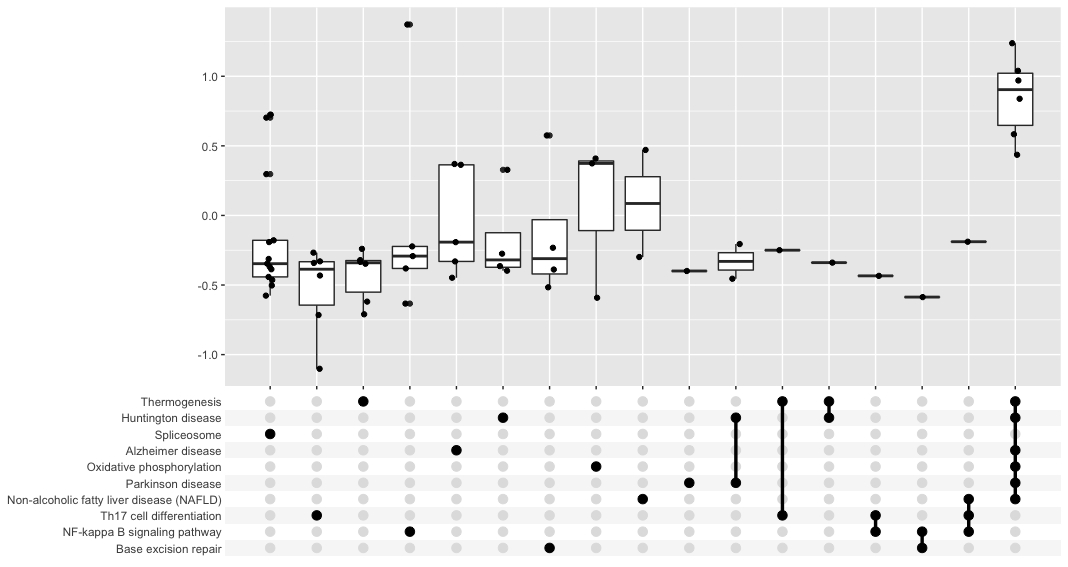
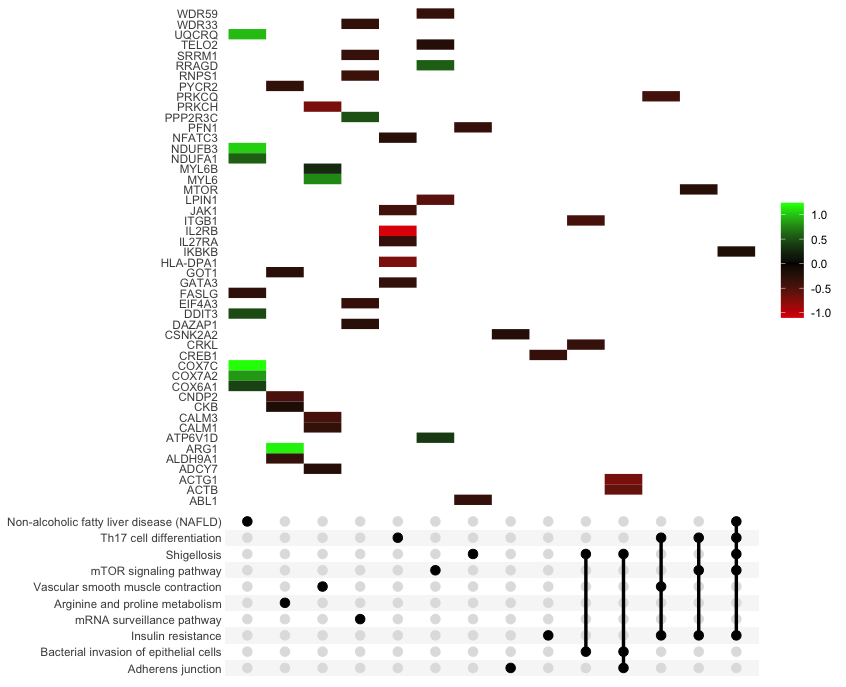
update README

diff --git a/README.md b/README.md
@@ -235,13 +235,16 @@ Graph](https://github.com/egeulgen/pathfindR/blob/master/vignettes/term_gene.png
 
 ## UpSet Plot
 
-UpSet plots are plots of the intersections of sets as a matrix.
-`UpSet_plot()` creates a ggplot object of an UpSet plot where the x-axis
-is the UpSet plot of intersections of enriched terms and the main plot
-is a bar plot of the number of genes in the corresponding intersections
-(default). If `genes_df` is provided, then the main plot displays the
-boxplots of change values of the genes within the corresponding
-intersections.
+UpSet plots are plots of the intersections of sets as a matrix. This
+function creates a ggplot object of an UpSet plot where the x-axis is
+the UpSet plot of intersections of enriched terms. By default (i.e.,
+`method = "heatmap"`), the main plot is a heatmap of genes at the
+corresponding intersections, colored by up/down regulation (if
+`genes_df` is provided, colored by change values). If `method =
+"barplot"`, the main plot is bar plots of the number of genes at the
+corresponding intersections. Finally, if `method = "boxplot"` and
+`genes_df` is provided, then the main plot displays the boxplots of
+change values of the genes at the corresponding intersections.
 
 ![UpSet
 plot](https://github.com/egeulgen/pathfindR/blob/master/vignettes/upset.png?raw=true
